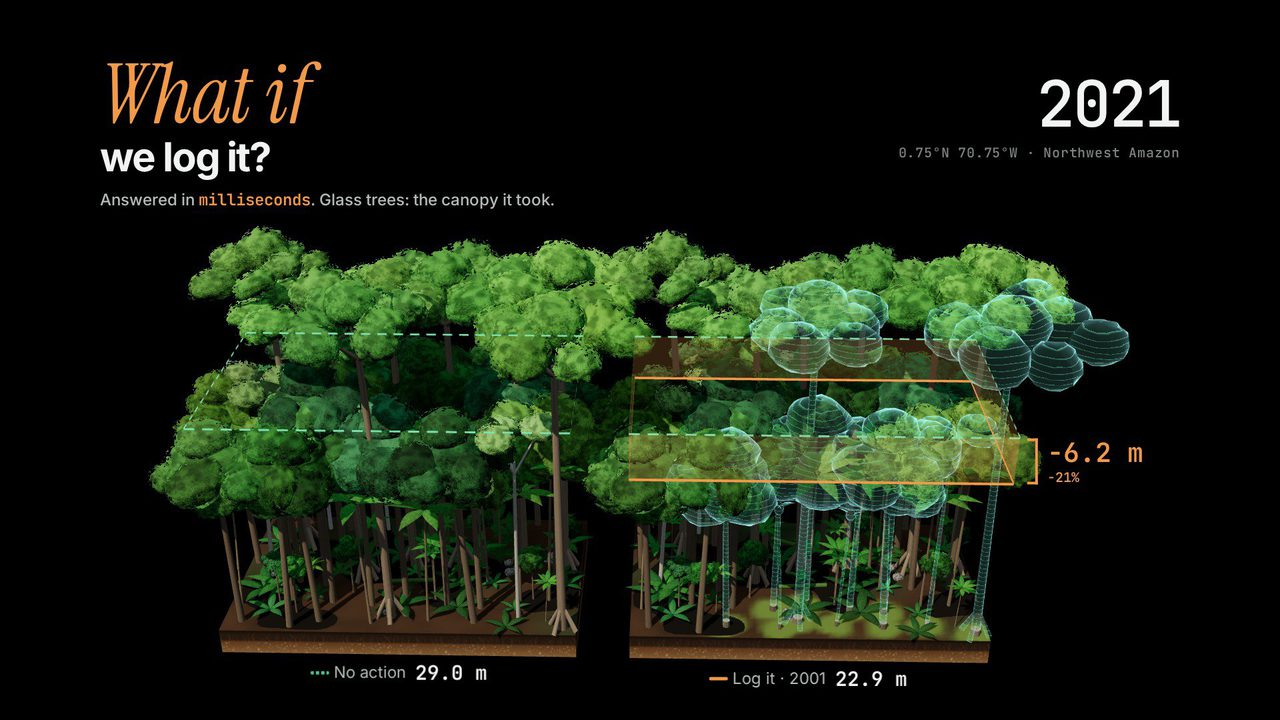
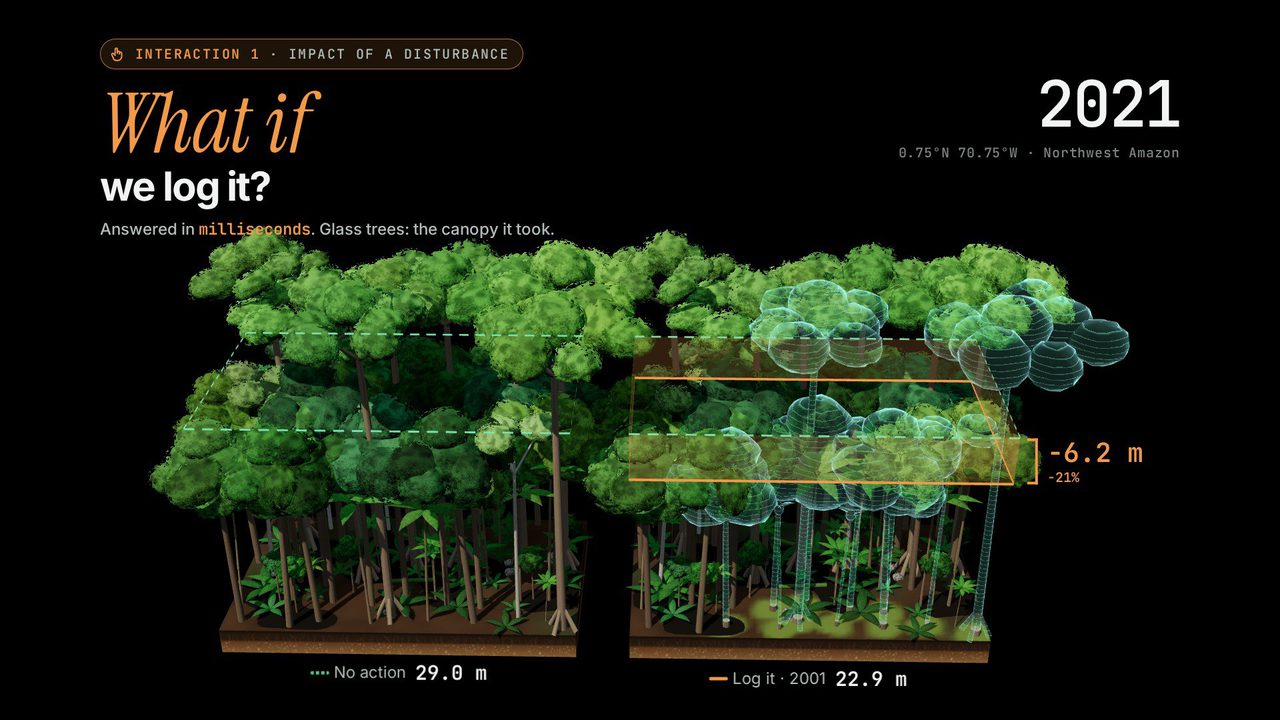
Embed the film on the page, and recut it around four interactions
The film now plays in its own section right after the hero (nav: Film); the
hero's button scrolls to it and starts it, and it pauses once scrolled away.

The recut names each scenario as an interaction and its use: the impact of a
disturbance (log it, it burns), action optimization (a +10% carbon goal for a
young stand, solved by the model's own optimizer under the 50 m cap), and the
impact across a landscape (a road and its carbon cost). The final card lists
the three uses. 64.5 s.

Changed region(s): [[0.0625, 0.0306, 0.4375, 0.3361]]

diff --git a/index.html b/index.html
@@ -26,6 +26,7 @@
 <header class="nav" id="nav">
   <a class="nav-mark" href="#top"><span class="mark" aria-hidden="true"></span> Earth System World Model</a>
   <nav class="nav-links" aria-label="Sections">
+    <a href="#film">Film</a>
     <a href="#try">Try it</a>
     <a href="#why">Why</a>
     <a href="#twin">Landscape</a>
@@ -71,6 +72,22 @@
 </section>
 
 <main>
+<!-- ───────────────────────────────────────────────────────────── the film -->
+<section class="film-band" id="film" aria-label="The film">
+  <div class="wrap">
+    <figure class="film">
+      <video id="film-video" controls playsinline preload="none" poster="assets/film/poster.jpg">
+        <source src="assets/film/eswm-film.mp4" type="video/mp4">
+      </video>
+      <figcaption class="film-cap">
+        <span class="film-k">The film · 1 min · with sound</span>
+        <span>Four interactions with the model: two disturbances, a carbon goal, a landscape. Rendered
+        frame by frame from this page’s own model, forest and landscape.</span>
+      </figcaption>
+    </figure>
+  </div>
+</section>
+
 <!-- ───────────────────────────────────────────────────────────── 01 the demo -->
 <section class="sec" id="try">
   <div class="wrap">
@@ -610,14 +627,6 @@
   </div>
 </section>
 </main>
-
-<dialog class="film" id="film" aria-label="The film: an interactive Earth system world model, in one minute">
-  <form method="dialog"><button class="film-x" aria-label="Close the film">×</button></form>
-  <video controls playsinline preload="none" poster="assets/film/poster.jpg">
-    <source src="assets/film/eswm-film.mp4" type="video/mp4">
-  </video>
-  <p class="film-cap">Rendered frame by frame from this page’s own model, forest and landscape; the score is generated in code.</p>
-</dialog>
 
 <footer class="foot">
   <div class="wrap">

diff --git a/css/main.css b/css/main.css
@@ -236,23 +236,13 @@ em {
 .btn-film svg { width: 15px; height: 15px; fill: currentColor; }
 .btn-film span { color: var(--ink-3); font: 500 var(--fs-xs)/1 var(--mono); }
 
-/* the film, in a dialog over the page */
-.film {
-  width: min(1180px, 94vw); max-width: none; padding: 0;
-  border: 1px solid var(--line-2); border-radius: var(--r-lg);
-  background: #000; color: var(--ink);
-  overflow: hidden;
-}
-.film::backdrop { background: rgba(0, 0, 0, .84); -webkit-backdrop-filter: blur(6px); backdrop-filter: blur(6px); }
+/* the film, on the page right after the hero */
+.film-band { padding: clamp(40px, 5.5vw, 80px) 0 0; }
+.film { margin: 0; overflow: hidden; border: 1px solid var(--line); border-radius: var(--r-lg); background: #000; box-shadow: var(--sh-card); }
 .film video { display: block; width: 100%; height: auto; aspect-ratio: 16 / 9; background: #000; }
-.film-x {
-  position: absolute; right: 12px; top: 12px; z-index: 2;
-  display: grid; place-items: center; width: 38px; height: 38px;
-  border: 1px solid var(--line-2); border-radius: 50%;
-  background: rgba(0, 0, 0, .6); color: var(--ink); font-size: 22px; line-height: 1;
-}
-.film-x:hover { border-color: var(--ink); }
-.film-cap { margin: 0; padding: 10px 16px 12px; color: var(--ink-3); font-size: var(--fs-xs); }
+.film-cap { display: flex; flex-wrap: wrap; align-items: baseline; gap: 6px 18px; margin: 0; padding: 14px var(--pad) 16px;
+  border-top: 1px solid var(--line); color: var(--ink-3); font-size: var(--fs-xs); line-height: 1.55; }
+.film-k { color: var(--accent); font: 500 var(--fs-micro)/1 var(--mono); letter-spacing: .14em; text-transform: uppercase; white-space: nowrap; }
 
 .hero-by {
   margin: clamp(22px, 3.4vh, 36px) 0 0;

diff --git a/js/main.js b/js/main.js
@@ -147,19 +147,16 @@ function chrome() {
     }
   }
 
-  // the film plays in a dialog; it is only fetched when asked for (preload="none")
-  const film = $('#film');
-  if (film && film.showModal) {
-    const v = film.querySelector('video');
+  // the film: the hero's button brings it into view and starts it (a click, so sound may play);
+  // it is fetched only when played, and pauses once it is scrolled away
+  const video = $('#film-video');
+  if (video) {
     $('#btn-film')?.addEventListener('click', () => {
-      film.showModal();
-      v.currentTime = 0;
-      v.play().catch(() => {});
+      $('#film').scrollIntoView({ behavior: 'smooth', block: 'center' });
+      video.play().catch(() => {});
     });
-    film.addEventListener('close', () => v.pause());
-    film.addEventListener('click', (e) => { if (e.target === film) film.close(); });
-  } else {
-    $('#btn-film')?.remove();
+    new IntersectionObserver(([e]) => { if (!e.isIntersecting && !video.paused) video.pause(); },
+      { threshold: 0.2 }).observe(video);
   }
 
   const copy = $('#btn-copy-bib');

diff --git a/README.md b/README.md
@@ -26,8 +26,9 @@ named. Paint logging, fire, replanting or protection onto the board, cell by cel
 year; the edited cells re-run and the landscape plays forward, with its carbon totals.
 `tests.html` checks both against the paper's PyTorch code in your own browser.
 
-A one-minute film (`assets/film/`) opens from the hero. It was rendered frame by frame from this
-page's own model, forest and landscape, with a score generated in code.
+A one-minute film (`assets/film/`) plays right after the hero: four interactions with the model
+(two disturbances, a carbon goal, a landscape). It was rendered frame by frame from this page's own
+model, forest and landscape, with a score generated in code.
 
 ## Paper
 
